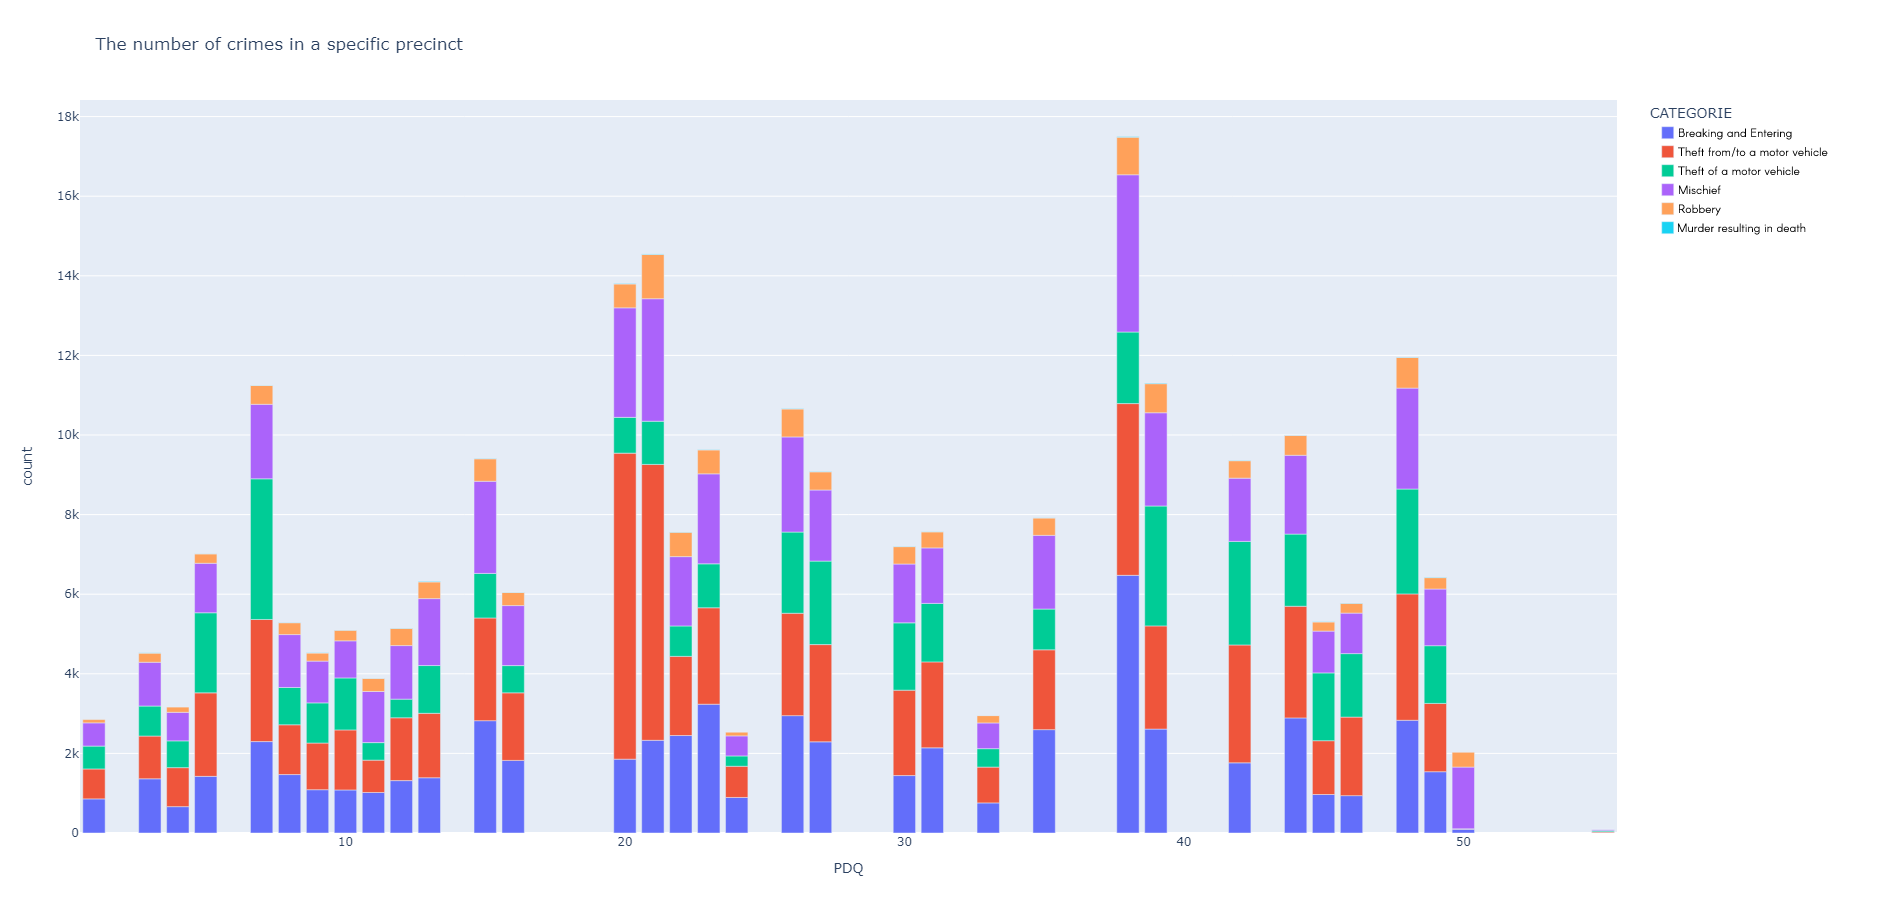
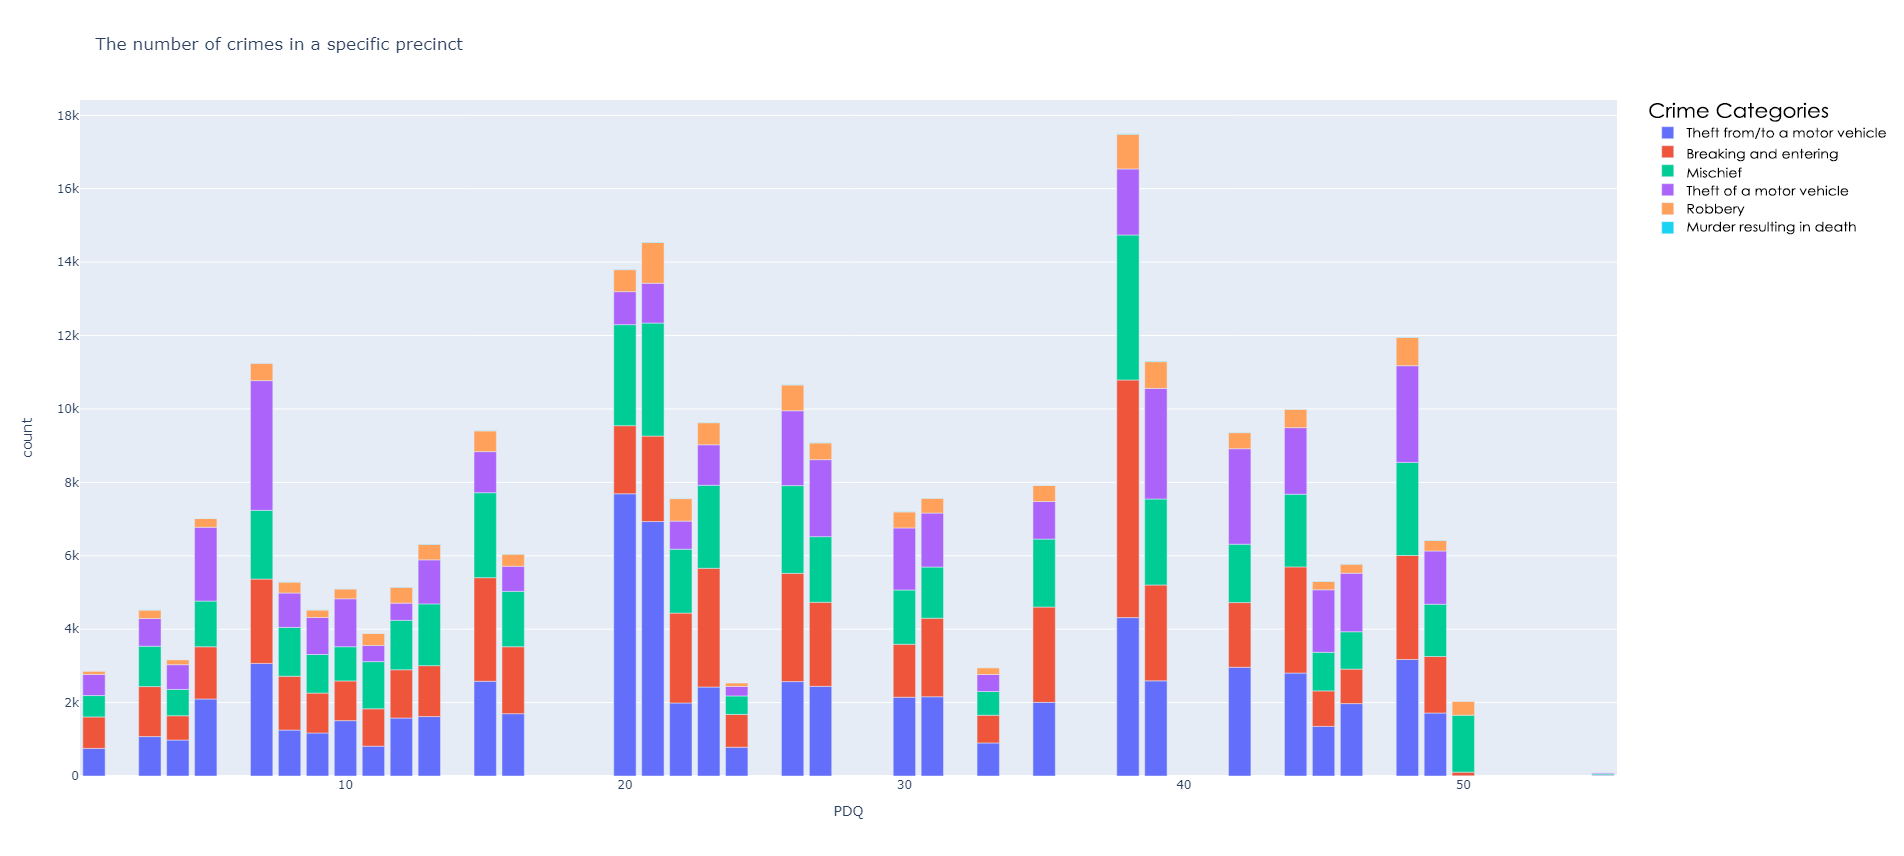
Finalizations:
Add a function that gives a visualization for precinct 38 (the precinct that has the most crime) and finalize other functions

diff --git a/main.py b/main.py
@@ -61,12 +61,20 @@ def segmentation_graph_crimes_and_precincts() -> None:
     fig.show()
 
 def _find_categ_amt_precinct_df() -> pd.DataFrame:
-    df = pd.read_sql_query("SELECT PDQ, categorie, COUNT(categorie) AS count "
-                           "FROM crime "
-                           "GROUP BY PDQ, categorie;", connection)
-    # df = pd.read_sql_query("SELECT PDQ, categorie, COUNT(categorie) AS count "
-    #                        "FROM crime "
-    #                        "GROUP BY PDQ;", connection)
+    query = """
+            SELECT PDQ, categorie, COUNT(categorie) AS count
+            FROM crime
+            GROUP BY PDQ, categorie
+            ORDER BY CASE
+                    WHEN categorie = 'Vol dans / sur véhicule à moteur' then 1
+                    WHEN categorie = 'Introduction' then 2
+                    WHEN categorie = 'Méfait' then 3
+                    WHEN categorie = 'Vol de véhicule à moteur' then 4
+                    WHEN categorie = 'Vols qualifiés' then 5
+                    WHEN categorie = 'Infractions entrainant la mort' then 6
+                    END;
+            """
+    df = pd.read_sql_query(query, connection)
     return df
 
 def bar_graph_tof_crime_rate() -> None:
@@ -108,17 +116,27 @@ def _find_spec_categ_in_precinct(category: str) -> pd.DataFrame:
     df = pd.read_sql_query(query, connection)
     return df
 
-if __name__ == "__main__":
-    introduction = ("Introduction", "reds")
-    vol_dans = ("Vol dans / sur véhicule à moteur", "blues")
-    vol_vehicle = ("Vol de véhicule à moteur", "purples")
-    mefait = ("Méfait", "greens")
-    vol_qualif = ("Vols qualifiés", "oranges")
-    infraction = ("Infractions entrainant la mort", "teal")
+def organize_category_amount_precinct_38() -> dict:
+    categ_dict = dict()
+    categ_dict['Breaking and Entering'] = _find_category_amount_precinct_38('Introduction')
+    categ_dict['Theft from/to a motor vehicle'] = _find_category_amount_precinct_38('Vol dans / sur véhicule à moteur')
+    categ_dict['Theft of a motor vehicle'] = _find_category_amount_precinct_38('Vol de véhicule à moteur')
+    categ_dict['Mischief'] = _find_category_amount_precinct_38('Méfait')
+    categ_dict['Robbery'] = _find_category_amount_precinct_38('Vols qualifiés')
+    categ_dict['Murder resulting death'] = _find_category_amount_precinct_38('Infractions entrainant la mort')
+    return categ_dict
 
-    make_map(*introduction)
-    make_map(*vol_dans)
-    make_map(*vol_vehicle)
-    make_map(*mefait)
-    make_map(*vol_qualif)
-    make_map(*infraction)
+def _find_category_amount_precinct_38(categ_name: str) -> int:
+    cursor.execute('SELECT categorie ,count(*) '
+                   'FROM crime '
+                   'WHERE categorie =? AND PDQ = 38 '
+                   'GROUP BY categorie;',
+                    (categ_name,))
+
+    result = cursor.fetchall()
+    return result[0][1]
+
+def pie_chart_crime_prop_precinct_38() -> None:
+    crime_dict = organize_category_amount_precinct_38()
+    fig = px.pie(values=crime_dict.values(), names=crime_dict.keys())
+    fig.show()
